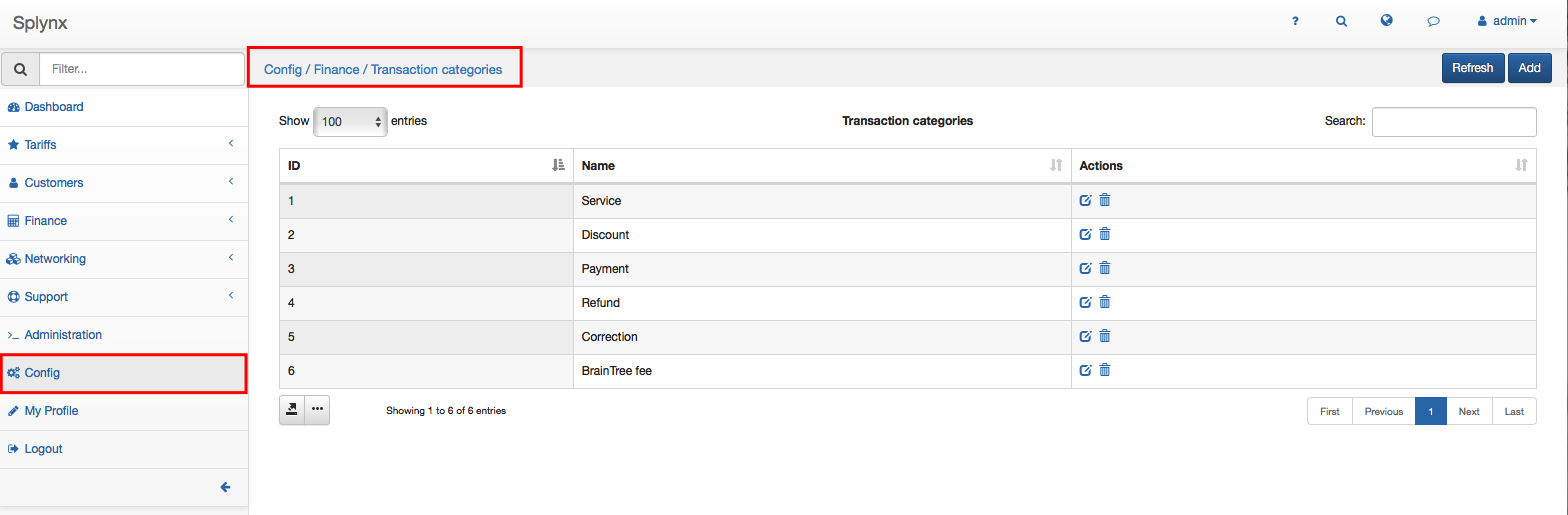
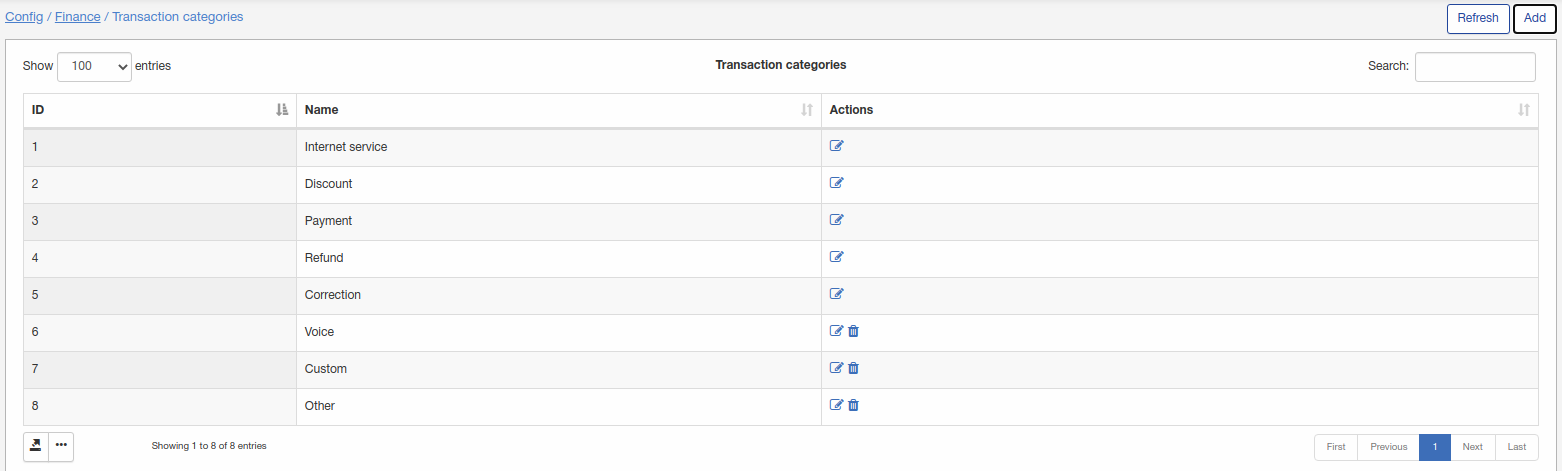
update config/finance/transaction categories

diff --git a/files/configuration/finance/transaction_categories/transaction_categories.md b/files/configuration/finance/transaction_categories/transaction_categories.md
@@ -3,30 +3,40 @@ Transaction categories
 
 To check all Transaction categories in Splynx click on `Config → Finance → Transaction categories`.
 
-![Main menu](main_menu.png)
+![Main menu](icon.png)
 
+#### Transaction categories
 
 Transaction categories listed here are set by default:
 
 ![List](list.png)
 
+I've added categories 6,7,8 and they can be removed. Default categories 1-5 can be only edited.
 
-You can add a new Transaction category manually by clicking on Add icon at the top-right corner of the screen:
+You can add a new Transaction category manually by clicking on Add icon at the top-right corner of the screen, export or select visible fields by click on left bottom corner on a screenshot.
 
-![Create transaction categories](create.png)
+#### Transaction categories configuration
 
-![List](list.png)
+![Mapping](mapping.png)
 
-You can also correct the name of the Transaction category or delete it by clicking on icon <icon class="image-icon">![](edit_icon.png)</icon>  or <icon class="image-icon">![](delete_icon.png)</icon> in Actions column of the table:
+Here can be configured mapping settings between services(internet, voice, custom, bundle or one-time), inventory and transaction categories. If all services have to be configured with this mapping you should select transaction category = "default for service type" under each tariff:
 
-![Edit](edit.png)
+![tariff](tariff.png)
 
+Then you will be able to track amount of money for each transaction category in Administration/Reports/Transaction categories report:
 
- On the list of particular customer's transactions in `Customers → View →Billing →Transactions` the category of every transaction made by this customer will be seen:
+![Reports](reports.png)
 
- ![View](view.png)
+![Report](report1.png)
 
+#### Transaction categories configuration for tariff plans
 
- If you will create any new transaction manually for the customer you can also choose its category:
+Here can be enabled mapping configuration for tariff plans if something was configured in a previous step in "Transaction categories configuration".
 
-![Select category](select.png)
+![Enable](enable.png)
+
+If these items enabled, tariffs will use configuration for transaction categories from this menu, if disabled - directly from tariff plan settings.
+
+Now with created and configured transaction categories we can use them in billing:
+
+![Customer billing](customer_billing.png) 
